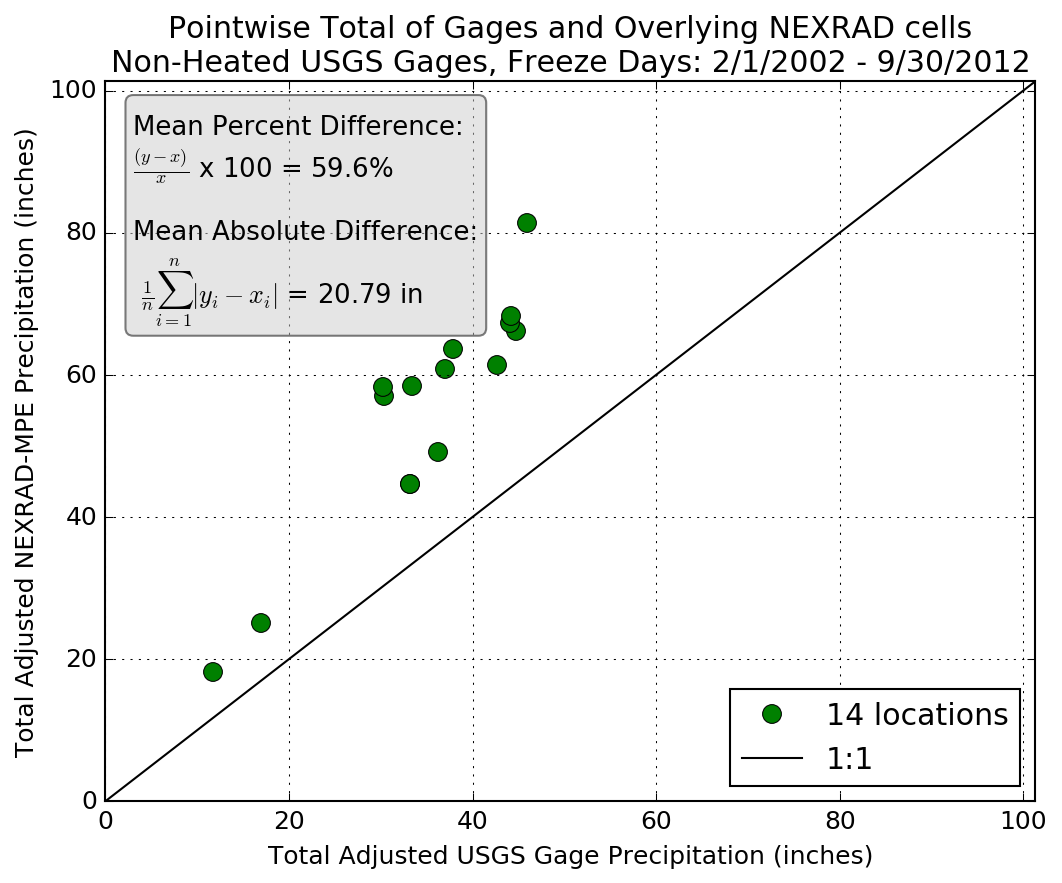
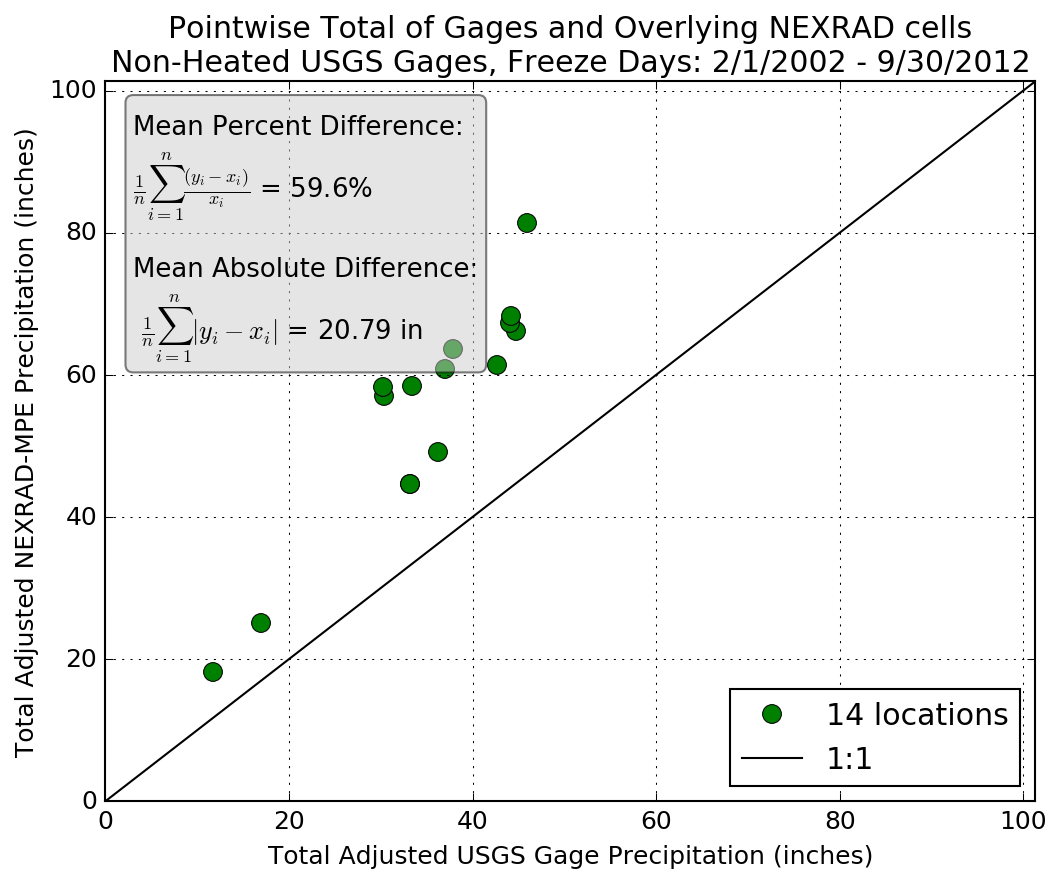
fixed mising MAD i subscript in equation box; add summation to MPD equation display

Changed region(s): [[0.0932, 0.1529, 0.4661, 0.4281]]

diff --git a/plot_scripts/plot_gage_nexrad_correl.py b/plot_scripts/plot_gage_nexrad_correl.py
@@ -15,7 +15,7 @@ plt.ioff()
 os.chdir("..")
 maindir = os.getcwd() + os.sep
 
-criteria = 'Freeze' # choicea are 'Freeze' or 'Thaw' #see find_freeze_days.py for more info
+criteria = 'Thaw' # choicea are 'Freeze' or 'Thaw' #see find_freeze_days.py for more info
 gage_types = ['All','Heated','Non-Heated']
 point_labels = 'no' # choices: 'yes', 'no' #plot point number labels
 padj = 1.14 # 1.14 apply the precip adj factor to both nexrad and usgs gage data
@@ -159,7 +159,7 @@ for gage_type in gage_types:
     
     ################### Calculate Error Statistics and add to plot ################
     pbias, mae, ns = calc_errors.print_errors(in_gage,in_nex)
-    textstr = '\nMean Percent Difference:\n' + r'$\frac{(y-x)}{x}$' + ' x 100 = ' + str('%.1f' % pbias) +'%\n\n' + 'Mean Absolute Difference:\n ' + r'$\frac{1}{n}\sum_{i=1}^n\vert y_i - x_i\vert$ = '+ str('%.2f' % mae) + ' in'  #Mean Absolute Difference
+    textstr = '\nMean Percent Difference:\n' + r'$\frac{1}{n}\sum_{i=1}^n\frac{(y_i-x_i)}{x_i}$ = ' + str('%.1f' % pbias) +'%\n\n' + 'Mean Absolute Difference:\n ' + r'$\frac{1}{n}\sum_{i=1}^n\vert y_i - x_i\vert$ = '+ str('%.2f' % mae) + ' in'  #Mean Absolute Difference
     # these are matplotlib.patch.Patch properties
     props = dict(boxstyle='round', facecolor = '0.8', alpha=0.5)
     

diff --git a/plot_scripts/plot_coco_nexrad_correl.py b/plot_scripts/plot_coco_nexrad_correl.py
@@ -16,7 +16,7 @@ plt.ioff()
 os.chdir("..")
 maindir = os.getcwd() + os.sep
 
-criteria = 'Thaw' # choicea are 'Freeze' or 'Thaw' #see find_freeze_days.py for more info
+criteria = 'Freeze' # choicea are 'Freeze' or 'Thaw' #see find_freeze_days.py for more info
 gage_net = 'cocorahs'
 point_labels = 'no' # choices: 'yes', 'no' #plot point number labels
 padj = 1.00
@@ -144,7 +144,7 @@ else:
     
 ################### Calculate Error Statistics and add to plot ################
 pbias, mae, ns = calc_errors.print_errors(in_gage,in_nex)
-textstr = '\nMean Percent Difference:\n' + r'$\frac{(y-x)}{x}$' + ' x 100 = ' + str('%.1f' % pbias) +'%\n\n' + 'Mean Absolute Difference:\n ' + r'$\frac{1}{n}\sum_{i=1}^n\vert y_i - x_i\vert$ = '+ str('%.2f' % mae) + ' in'  #Mean Absolute Difference
+textstr = '\nMean Percent Difference:\n' + r'$\frac{1}{n}\sum_{i=1}^n\frac{(y_i-x_i)}{x_i}$ = ' + str('%.1f' % pbias) +'%\n\n' + 'Mean Absolute Difference:\n ' + r'$\frac{1}{n}\sum_{i=1}^n\vert y_i - x_i\vert$ = '+ str('%.2f' % mae) + ' in'  #Mean Absolute Difference
 #textstr = 'Mean Percent Difference = ' + str('%.1f' % pbias) +'%\n' + 'Mean Absolute Difference = ' + str('%.2f' % mae) + ' in'
 # these are matplotlib.patch.Patch properties
 props = dict(boxstyle='round', facecolor = '0.8', alpha=0.5)
